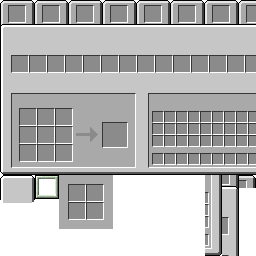
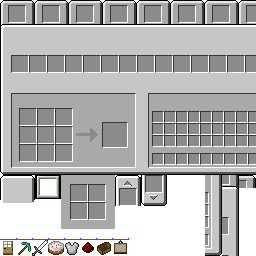
Fixed item sizes

Changed region(s): [[0.0, 0.6562, 0.6562, 1.0], [0.125, 0.6875, 0.1562, 0.7812]]

diff --git a/src/main/java/useless/legacyui/mixin/ItemEntityRendererMixin.java b/src/main/java/useless/legacyui/mixin/ItemEntityRendererMixin.java
@@ -9,6 +9,7 @@ import net.minecraft.core.Global;
 import net.minecraft.core.block.Block;
 import net.minecraft.core.entity.EntityItem;
 import net.minecraft.core.item.Item;
+import net.minecraft.core.item.ItemStack;
 import org.lwjgl.opengl.GL11;
 import org.spongepowered.asm.mixin.Mixin;
 import org.spongepowered.asm.mixin.Overwrite;
@@ -98,4 +99,53 @@ public class ItemEntityRendererMixin extends EntityRenderer<EntityItem> {
         tessellator.addVertexWithUV((double)(x + 0), (double)(y + 0), 0.0, (double)((float)(tileX + 0) * f1), (double)((float)(tileY + 0) * f2));
         tessellator.draw();
     }
+    /**
+     * @author
+     * @reason
+     */
+    @Overwrite
+    private void renderQuad(Tessellator tessellator, int i, int j, int k, int l, int i1) {
+        tessellator.startDrawingQuads();
+        tessellator.setColorOpaque_I(i1);
+        tessellator.addVertex(i + 0, j + 0, 0.0);
+        tessellator.addVertex(i + 0, j + l, 0.0);
+        tessellator.addVertex(i + k, j + l, 0.0);
+        tessellator.addVertex(i + k, j + 0, 0.0);
+        tessellator.draw();
+    }
+    @Shadow
+    public void renderItemOverlayIntoGUI(FontRenderer fontrenderer, RenderEngine renderengine, ItemStack itemstack, int i, int j, String override) {
+        if (itemstack == null) {
+            return;
+        }
+        if (itemstack.stackSize != 1 || override != null) {
+            String s = "" + itemstack.stackSize;
+            if (override != null) {
+                s = override;
+            }
+            GL11.glDisable(2896);
+            GL11.glDisable(2929);
+            fontrenderer.drawStringWithShadow(s, i + 19 - 2 - fontrenderer.getStringWidth(s), j + 6 + 3, 0xFFFFFF);
+            GL11.glEnable(2896);
+            GL11.glEnable(2929);
+        }
+        if (itemstack.isItemDamaged() || itemstack.getItem().showFullDurability()) {
+            int k = (int)Math.round(13.0 - (double)itemstack.getItemDamageForDisplay() * 13.0 / (double)itemstack.getMaxDamage());
+            int l = (int)Math.round(255.0 - (double)itemstack.getItemDamageForDisplay() * 255.0 / (double)itemstack.getMaxDamage());
+            GL11.glDisable(2896);
+            GL11.glDisable(2929);
+            GL11.glDisable(3553);
+            Tessellator tessellator = Tessellator.instance;
+            int i1 = 255 - l << 16 | l << 8;
+            int j1 = (255 - l) / 4 << 16 | 0x3F00;
+            this.renderQuad(tessellator, i + 2, j + 13, 13, 2, 0);
+            this.renderQuad(tessellator, i + 2, j + 13, 12, 1, j1);
+            this.renderQuad(tessellator, i + 2, j + 13, k, 1, i1);
+            GL11.glEnable(3553);
+            GL11.glEnable(2896);
+            GL11.glEnable(2929);
+            GL11.glColor4f(1.0f, 1.0f, 1.0f, 1.0f);
+        }
+    }
+
 }

diff --git a/src/main/java/useless/legacyui/Gui/GuiLegacyCrafting.java b/src/main/java/useless/legacyui/Gui/GuiLegacyCrafting.java
@@ -1,6 +1,7 @@
 package useless.legacyui.Gui;
 
 import net.minecraft.client.gui.GuiContainer;
+import net.minecraft.client.render.TextureFX;
 import net.minecraft.core.player.inventory.InventoryPlayer;
 import net.minecraft.core.world.World;
 import org.lwjgl.opengl.GL11;
@@ -24,6 +25,7 @@ public class GuiLegacyCrafting extends GuiContainer {
     public void drawGuiContainerForegroundLayer() {
         this.fontRenderer.drawCenteredString("Inventory", 205, this.ySize - 78, 0XFFFFFF);
         this.fontRenderer.drawCenteredString("Crafting", 72, this.ySize - 78, 0XFFFFFF);
+
     }
 
     public void drawGuiContainerBackgroundLayer(float f) {
@@ -36,5 +38,15 @@ public class GuiLegacyCrafting extends GuiContainer {
         this.drawTexturedModalRect(j + 256, k+this.ySize-81, 205, 175, 17, 81);
         this.drawTexturedModalRect(j + 256, k+this.ySize-81-81 , 222, 175, 17, 81);
         this.drawTexturedModalRect(j + 256, k+this.ySize-81-81-13, 239, 175, 17, 13);
+
+        int item = 0;
+        this.drawTexturedModalRect(j + 9 + 34*item,k + 6, 16 * item++, 256-16, 16, 16);
+        this.drawTexturedModalRect(j + 9 + 34*item,k + 6, 16 * item++, 256-16, 16, 16);
+        this.drawTexturedModalRect(j + 9 + 34*item,k + 6, 16 * item++, 256-16, 16, 16);
+        this.drawTexturedModalRect(j + 9 + 34*item,k + 6, 16 * item++, 256-16, 16, 16);
+        this.drawTexturedModalRect(j + 9 + 34*item,k + 6, 16 * item++, 256-16, 16, 16);
+        this.drawTexturedModalRect(j + 9 + 34*item,k + 6, 16 * item++, 256-16, 16, 16);
+        this.drawTexturedModalRect(j + 9 + 34*item,k + 6, 16 * item++, 256-16, 16, 16);
+        this.drawTexturedModalRect(j + 9 + 34*item,k + 6, 16 * item++, 256-16, 16, 16);
     }
 }

diff --git a/src/main/java/useless/legacyui/mixin/GuiRenderItemMixin.java b/src/main/java/useless/legacyui/mixin/GuiRenderItemMixin.java
@@ -30,11 +30,11 @@ public class GuiRenderItemMixin extends Gui {
     public void render(ItemStack itemStack, int x, int y, boolean isSelected, Slot slot) {
         boolean hasDrawnSlotBackground = false;
         boolean discovered = true;
-        int slotSize = 16;
+        int slotSize = 18;
         float renderScale = 1f;
         if (slot instanceof SlotResizable){
             slotSize = ((SlotResizable) slot).width;
-            renderScale = slotSize/16f;
+            renderScale = (slotSize)/18f;
         }
         GL11.glPushMatrix();
         GL11.glRotatef(120.0F, 1.0F, 0.0F, 0.0F);
@@ -69,7 +69,7 @@ public class GuiRenderItemMixin extends Gui {
         if (isSelected) {
             GL11.glDisable(2896);
             GL11.glDisable(2929);
-            this.drawRect(x, y, x + slotSize, y + slotSize, -2130706433);
+            this.drawRect(x, y, x + slotSize-2, y + slotSize-2, -2130706433);
             GL11.glEnable(2896);
             GL11.glEnable(2929);
         }

diff --git a/src/main/java/useless/legacyui/Gui/ContainerWorkbenchLegacy.java b/src/main/java/useless/legacyui/Gui/ContainerWorkbenchLegacy.java
@@ -39,13 +39,13 @@ public class ContainerWorkbenchLegacy extends Container {
         // 3x9 inventory
         for(j1 = 0; j1 < 3; ++j1) {
             for(l1 = 0; l1 < 9; ++l1) {
-                this.addSlot(new SlotResizable(inventoryplayer, l1 + j1 * 9 + 9, 152 + l1 * 12, 111 + j1 * 12, 12));
+                this.addSlot(new SlotResizable(inventoryplayer, l1 + j1 * 9 + 9, 153 + l1 * 12, 112 + j1 * 12, 12));
             }
         }
 
         // 1x9 hotbar
         for(j1 = 0; j1 < 9; ++j1) {
-            this.addSlot(new SlotResizable(inventoryplayer, j1, 152 + j1 * 12, 153, 12));
+            this.addSlot(new SlotResizable(inventoryplayer, j1, 153 + j1 * 12, 154, 12));
         }
 
         this.onCraftMatrixChanged(this.craftMatrix);
